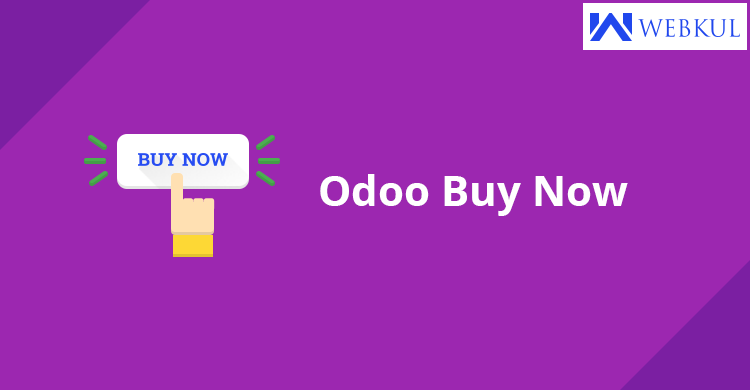
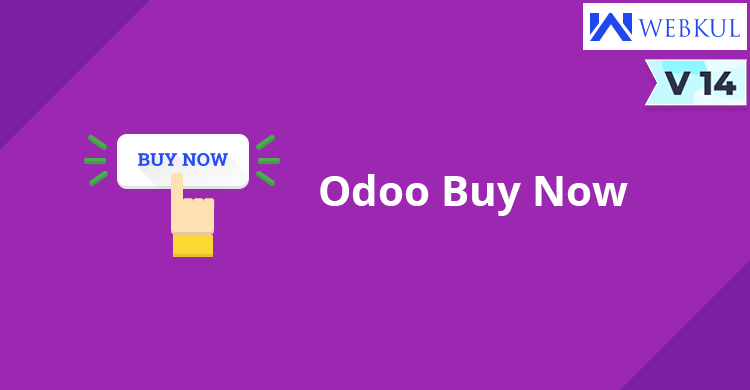
Website Buy Now update to V14

Changed region(s): [[0.8587, 0.1538, 1.0, 0.2769]]

diff --git a/website_buy_now/static/description/index.html b/website_buy_now/static/description/index.html
@@ -5,114 +5,166 @@
 
 <div class="container" style="font-family: 'Montserrat', sans-serif !important;font-size: 20px;display: inline-block;">
 
-  <section class="col-md-12 col-lg-12 col-xs-12 col-12" style="margin-top:50px;padding:10px;line-height: 2; background-color:#F0F4F7; box-shadow: 0px 0px 10px rgba(0, 0, 0, 0.2);">
-    <h1 style="border-bottom: 1px solid #999999;padding-bottom: 5px;color:	#a70000; text-align:center;"><span class="fa fa-shopping-bag" /> Website Buy Now</h1>
-    <p style="color:#a70000; text-align:center">
-      Faster checkouts and higher conversions with "Buy Now"
-    </p>
-    <div style="display:flex;color:#001f3f;">
-      <span>  <i class="fa fa-eercast" ></i></span>
-      <p style="color:#001f3f;display: inline;padding-left: 5px;">
-        The module adds Buy Now button to the products on Shop Page and product page.
-      </p>
+  <section class="oe_container" id="wk_header">
+    <div class="mt32 mb32">
+        <h2 class="text-center" style="color:#000">
+            Website Buy Now
+        </h2>
+        <h5 class="mt8 mb8 text-center" style="font-weight:500; font-size:18px; color:#484848; font-family:'Montserrat', sans-serif">
+            <i>Faster checkouts and higher conversions with "Buy Now"</i>
+        </h5>
     </div>
-    <div style="display:flex;color:#001f3f;">
-      <span>  <i class="fa fa-eercast" ></i></span>
-      <p style="color:#001f3f;display: inline;padding-left: 5px;">
-        The "Buy Now" button will now appear next to products as an icon.
-      </p>
+    <div class="row mt16 mb16 py-2 m-1" style="font-weight:500; font-size:18px; color:#484848; font-family:'Montserrat', sans-serif">
+        <div class="container col-md-6  border-right" style="font-weight:500;line-height: 24px;font-size:16px;color:#484848;font-family:'Montserrat', sans-serif; vertical-align: middle; display: grid;">
+            <p class="mb4 mt4 mr8">
+              Odoo Website Buy Now Module adds a "Buy Now" icon on each product on the shop page and product page. Hence, the module makes the checkout process quicker which reduces cart abandonment.
+            </p>
+        </div>
+        <div class="container col-md-6 ">
+            <h4 class="ml-md-3">Information</h4>
+            <div class="mt-2 ml-md-3" style="display:flex">
+                <span class="ml-1 mr-2 my-auto"><img src="icon-user-guide.png" alt="user-guide"></span>
+                <div style="font-weight: 600;font-size: 14px;line-height: 10px;" class="mt-2">
+                    User Guide
+                </div>
+            </div>
+            <div class="ml-md-3" style="display:flex;">
+                <span style="font-size:15px; margin-top:0.2rem"> https://webkul.com/blog/odoo-website-buy-now/</span>
+            </div>
+        </div>
     </div>
+</section>
 
-    <div style="display:flex;color:#001f3f;">
-      <span>  <i class="fa fa-eercast" ></i></span>
-      <p style="color:#001f3f;display: inline;padding-left: 5px;">
-        The buyers can just click on the "Buy Now" button which would take them directly to the shipping page while skipping the cart and process quick checkout in as small as 2 steps.
-      </p>
+
+  <section class="card border-0 shadow-sm mt-4">
+    <div class="card-header bg-white border-light">
+      <p class="mb-0 h3 text-dark">Requirements</p>
+    </div>
+    <div class="card-body border-0">
+      <ul class="pl-4">
+        <li>
+          <p class="h4 w-100 text-dark mb-0 font-weight-normal" style="line-height: 2;">
+            The module adds Buy Now button to the products on Shop Page and product page.
+          </p>
+        </li>
+        <li>
+          <p class="h4 w-100 text-dark mb-0 font-weight-normal" style="line-height: 2;">
+            The "Buy Now" button will now appear next to products as an icon.
+          </p>
+        </li>
+        <li>
+          <p class="h4 w-100 text-dark mb-0 font-weight-normal" style="line-height: 2;">
+            The buyers can just click on the "Buy Now" button which would take them directly to the shipping page while skipping the cart and process quick checkout in as small as 2 steps.
+          </p>
+        </li>
+      </ul>
     </div>
   </section>
 
-  <section class="col-md-12 col-lg-12 col-xs-12 col-12" style="line-height: 1.5;margin-top:50px;padding:10px; background-color:#F0F4F7; box-shadow: 0px 0px 10px rgba(0, 0, 0, 0.2);">
-    <h2 style="color:	#a70000;border-bottom: 1px solid #999999;padding-bottom: 5px; text-align:center;">Features</h2>
-    <ul>
-      <li style="margin-bottom: 20px;">
-        <p style="color:#001f3f;">
-          The module facilitates quicker checkout for customers looking to buy a one product at a time.
-      </li>
-      <li style="margin-bottom: 20px;">
-        <p style="color:#001f3f;">
-          It adds a Buy Now button individually to the products on both the shop page and product page on Odoo website.
-        </p>
-      </li>
-      <li style="margin-bottom: 20px;">
-        <p style="color:#001f3f;">
-          The customers can just click on the "Buy Now" button and go to shipping information page, skipping the cart altogether and proceed with the checkout.
-        </p>
-      </li>
-      <li style="margin-bottom: 20px;">
-        <p style="color:#001f3f;">
-          When Buy Now is clicked, the products present in the cart (if any) gets automatically hidden and the cart gets reset to show just the clicked product. Once the order is placed, the cart gets automatically recovered with the original products in the list.
-
-        </p>
-      </li>
-      <li style="margin-bottom: 20px;">
-        <p style="color:#001f3f;">
-          If Buy Now button is clicked on multiple browsers or multiple tabs from the same account, the system displays an error while making payments to prevent conflicting orders from same Buy Now cart.
-        </p>
-      </li>
-    </ul>
-
+  <section class="card border-0 shadow-sm mt-4">
+    <div class="card-header bg-white border-light">
+      <p class="mb-0 h3 text-dark">Key Features</p>
+    </div>
+    <div class="card-body border-0">
+      <ul class="pl-4">
+        <li>
+          <p class="h4 w-100 text-dark mb-0 font-weight-normal" style="line-height: 2;">
+            The module facilitates quicker checkout for customers looking to buy a one product at a time.
+          </p>
+        </li>
+        <li>
+          <p class="h4 w-100 text-dark mb-0 font-weight-normal" style="line-height: 2;">
+            It adds a Buy Now button individually to the products on both the shop page and product page on Odoo website.
+          </p>
+        </li>
+        <li>
+          <p class="h4 w-100 text-dark mb-0 font-weight-normal" style="line-height: 2;">
+            The customers can just click on the "Buy Now" button and go to shipping information page, skipping the cart altogether and proceed with the checkout.
+          </p>
+        </li>
+        <li>
+          <p class="h4 w-100 text-dark mb-0 font-weight-normal" style="line-height: 2;">
+            When Buy Now is clicked, the products present in the cart (if any) gets automatically hidden and the cart gets reset to show just the clicked product. Once the order is placed, the cart gets automatically recovered with the original products in the list.
+          </p>
+        </li>
+        <li>
+          <p class="h4 w-100 text-dark mb-0 font-weight-normal" style="line-height: 2;">
+            If Buy Now button is clicked on multiple browsers or multiple tabs from the same account, the system displays an error while making payments to prevent conflicting orders from same Buy Now cart.
+          </p>
+        </li>
+      </ul>
+    </div>
   </section>
 
-  <section class="col-md-12 col-lg-12 col-xs-12 col-12" style="margin-top:50px;padding:0px; background-color:#F0F4F7; box-shadow: 0px 0px 10px rgba(0, 0, 0, 0.2);">
-    <p style="margin-bottom:0px;"><a href="img_1.png" target="new"><img src="img_1.png" style="width:100%;" /></a></p>
+  <section class="card border-0 shadow-sm mt-4">
+    <div class="card-body border-0">
+      <p class="mb-4 h4 text-dark">Buy now button on the website shop page</p>
+      <p class="mb-0"><a href="img_1.png" target="new"><img src="img_1.png" class="w-100" /></a></p>
+      <p class="mb-4 h4 mt-4 text-dark">Buy now button on the website Product page</p>
+      <p class="mb-0"><a href="img_2.png" target="new"><img src="img_2.png" class="w-100" /></a></p>
+    </div>
   </section>
-  <section class="col-md-12 col-lg-12 col-xs-12 col-12" style="margin-top:50px;padding:0px; background-color:#F0F4F7; box-shadow: 0px 0px 10px rgba(0, 0, 0, 0.2);">
-    <p style="margin-bottom:0px;"><a href="img_2.png" target="new"><img src="img_2.png" style="width:100%;" /></a></p>
+  <section class="card border-0 shadow-sm mt-4">
+    <div class="card-body border-0">
+      <p class="mb-4 h4 text-dark">Enable/Disable Buy now feature for website from the shop page</p>
+      <p class="mb-0"><a href="img_3.png" target="new"><img src="img_3.png" class="w-100" /></a></p>
+      <p class="mb-4 h4 mt-4 text-dark">Enable/Disable Buy now feature for website from the Product page</p>
+      <p class="mb-0"><a href="img_7.png" target="new"><img src="img_7.png" class="w-100" /></a></p>
+    </div>
   </section>
-  <section class="col-md-12 col-lg-12 col-xs-12 col-12" style="margin-top:50px;padding:0px; background-color:#F0F4F7; box-shadow: 0px 0px 10px rgba(0, 0, 0, 0.2);">
-    <p style="margin-bottom:0px;"><a href="img_3.png" target="new"><img src="img_3.png" style="width:100%;" /></a></p>
+
+  <section class="card border-0 shadow-sm mt-4">
+    <div class="card-body border-0">
+      <p class="mb-0"><a href="img_4.png" target="new"><img src="img_4.png" class="w-100" /></a></p>
+    </div>
   </section>
-  <section class="col-md-12 col-lg-12 col-xs-12 col-12" style="margin-top:50px;padding:0px; background-color:#F0F4F7; box-shadow: 0px 0px 10px rgba(0, 0, 0, 0.2);">
-    <p style="margin-bottom:0px;"><a href="img_4.png" target="new"><img src="img_4.png" style="width:100%;" /></a></p>
-  </section>
-  <section class="col-md-12 col-lg-12 col-xs-12 col-12" style="margin-top:50px;padding:0px; background-color:#F0F4F7; box-shadow: 0px 0px 10px rgba(0, 0, 0, 0.2);">
-    <p style="margin-bottom:0px;"><a href="img_5.png" target="new"><img src="img_5.png" style="width:100%;" /></a></p>
-  </section>
-  <section class="col-md-12 col-lg-12 col-xs-12 col-12" style="margin-top:50px;padding:0px; background-color:#F0F4F7; box-shadow: 0px 0px 10px rgba(0, 0, 0, 0.2);">
-    <p style="margin-bottom:0px;"><a href="img_6.png" target="new"><img src="img_6.png" style="width:100%;" /></a></p>
+
+  <section class="card border-0 shadow-sm mt-4">
+    <div class="card-body border-0">
+      <p class="mb-4 h4 text-dark">After clicking the Buy Now button, All the products are removed and added the one, user request redirected to payment page.</p>
+      <p class="mb-0"><a href="img_5.png" target="new"><img src="img_5.png" class="w-100" /></a></p>
+      <p class="mb-4 h4 mt-4 text-dark">After confirming the order recover all the products again that has been removed by the Buy Now button.</p>
+      <p class="mb-0"><a href="img_6.png" target="new"><img src="img_6.png" class="w-100" /></a></p>
+    </div>
   </section>
 
 
-    <section style="margin-top:50px;">
-      <div>
-          <div class="col-md-12 col-lg-12 col-xs-12 col-12">
-              <h2 class='oe_slogan' style="color:#5D6D7E;text-align: center;">Complimentary Support</h2>
-              <p style="color:#5D6D7E; text-align:center;">
-              You will get 90 days free support for any doubt, queries, and bug fixing excluding(data recovery) or any type of issue related to this module.
-              </p>
+  <section class="pt32" id="webkul_support">
+      <div class="row">
+          <div class="col-12">
+              <h2 class="text-center">Help and Support</h2>
+              <p class="mb-2 text-center" style="font-size:16px; color:#333; font-weight:400">Get Immediate support for any of your query</p>
+          </div>
+          <div class="col-12">
+              <p class="text-center px-5" style="font-size:14px; color:#555; font-weight:normal">You will get 90 days free support for any doubt, queries, and bug fixing (excluding data recovery) or any type of issue related to this module.</p>
+          </div>
+          <div class="mx-auto col-lg-9 mb-4 oe_screenshot">
+              <div class="row align-items-center justify-content-center mx-0 p-3">
+                  <div class="col-sm-2 text-center pr-0">
+                      <img src="mail.png" alt="mail" class="img img-fluid">
+                  </div>
+                  <div class="col-xl-7 col-sm-10">
+                      <p class="my-2" style="color:#555; font-weight:bold">Write a mail to us:</p>
+                      <b class="text-primary" style="font-size:18px">support@webkul.com</b>
+                      <p class="my-2" style="font-size:14px; color:#777; font-weight:normal">Any queries or want any extra features? Just drop a mail to our support.</p>
+                  </div>
+                  <div class="col-xl-3 offset-xl-0 float-xl-right col-sm-10 offset-sm-2 float-left mt16">
+                      <a href="mailto:support@webkul.com" style="padding:10px 22px; background-color:#2335D7; font-size:14px; color:#fff"><i class="fa fa-pencil-square-o" style="color:white; margin-right:4px"></i>Write To US</a>
+                  </div>
+              </div>
+          </div>
+          <div class="mx-auto col-lg-9 oe_screenshot">
+              <div class="row align-items-center justify-content-center mx-0 p-3">
+                  <div class="col-sm-2 text-center pr-0">
+                      <img src="support-icon.png" alt="support-icon" class="img img-fluid">
+                  </div>
+                  <div class="col-sm-10 ">
+                      <p class="my-2" style="font-weight:bold; color:#555">Get in touch with our Expert:</p>
+                      <b class="text-primary text-break" style="font-size:18px">https://webkul.uvdesk.com/en/customer/create-ticket/</b>
+                      <p class="my-2" style="font-weight:normal; font-size:14px; color:#777">Have any technical queries, want extra features, or anything else? Our team is here to answer all your questions. Just Raise A Support Ticket.</p>
+                  </div>
+              </div>
           </div>
       </div>
-      <div class="col-md-12 col-lg-12 col-xs-12 col-12">
-          <div class="" style="text-align: center;">
-              <h2 class="oe_slogan" style="color:#5D6D7E;text-align: center;">Help and Support</h2>
-          </div>
-          <div class="oe_slogan oe_spaced" style="text-align: center;">
-              <img src="icon-help.png">
-              <span ><a onMouseOver="this.style.color='#AC1EE0'"
-                onMouseOut="this.style.color='#7c7bad'" style="color:#fc8927;" target="_blank" href="http://webkul.uvdesk.com/en/customer/create-ticket/">Help</a></span>
-              <img src="icon-support.png">
-              <span ><a onMouseOver="this.style.color='#AC1EE0'"
-                onMouseOut="this.style.color='#7c7bad'" style="color:#fc8927;" target="_blank" href="http://webkul.uvdesk.com/en/customer/create-ticket/">Support</a></span>
-              <img src="icon-features.png">
-              <span ><a onMouseOver="this.style.color='#AC1EE0'"
-                onMouseOut="this.style.color='#7c7bad'" style="color:#fc8927;" target="_blank" href="http://webkul.uvdesk.com/en/customer/create-ticket/">Request new Features</a></span>
-          </div>
-      </div>
-    </section>
-
-    <section class="oe_container">
-      <div class="col-md-12 col-lg-12 col-xs-12 col-12">
-        <img src="http://odooimg.webkul.com/analytics/piwik/piwik.php?idsite=3&rec=1&action_name=WEBSITE-CART-SETTINGS&url=https://apps.openerp.com/apps/modules/10.0/advance_website_settings&uid=advance_website_settings" style="border:0" alt="" />
-      </div>
-    </section>
+  </section>
 </div>

diff --git a/website_buy_now/static/src/js/main.js b/website_buy_now/static/src/js/main.js
@@ -38,7 +38,7 @@ odoo.define('website_buy_now.main', function (require) {
 
     function loadPage(){
       var path = window.location.pathname;
-      var paths = ['/shop/checkout','/shop/payment','/shop/confirmation','/shop/cart','/shop/address']
+      var paths = ['/shop/checkout','/shop/payment','/shop/confirmation','/shop/cart','/shop/address', '/payment/process']
       if ((localStorage.getItem("buy_now") == 'true' && !paths.includes(path))|| (path == '/shop')){
         $('.my_cart_quantity ').hide();
         ajax_get_quantity();

diff --git a/website_buy_now/__manifest__.py b/website_buy_now/__manifest__.py
@@ -15,9 +15,9 @@
 #################################################################################
 {
   "name"                 :  "Website Buy Now",
-  "summary"              :  "Odoo website Buy Now module adds a Buy Now button to the products on Odoo website so you buy the products in a single click.",
+  "summary"              :  """Odoo website Buy Now module adds a Buy Now button to the products on Odoo website so you buy the products in a single click.""",
   "category"             :  "Website",
-  "version"              :  "1.0.3",
+  "version"              :  "1.0.7",
   "author"               :  "Webkul Software Pvt. Ltd.",
   "license"              :  "Other proprietary",
   "website"              :  "https://store.webkul.com/Odoo-Website-Buy-Now.html",
@@ -40,8 +40,7 @@
                             Order again""",
   "live_test_url"        :  "http://odoodemo.webkul.com/?module=website_buy_now",
   "depends"              :  [
-                             'website_sale',
-                             'sale',
+                             'website_sale_delivery',
                             ],
   "data"                 :  [
                              'security/ir.model.access.csv',
@@ -52,6 +51,6 @@
   "installable"          :  True,
   "auto_install"         :  False,
   "price"                :  69,
-  "currency"             :  "EUR",
+  "currency"             :  "USD",
   "pre_init_hook"        :  "pre_init_check",
 }

diff --git a/website_buy_now/__init__.py b/website_buy_now/__init__.py
@@ -13,5 +13,5 @@ def pre_init_check(cr):
 	from odoo.exceptions import Warning
 	version_info = common.exp_version()
 	server_serie =version_info.get('server_serie')
-	if server_serie!='13.0':raise Warning('Module support Odoo series 13.0 found {}.'.format(server_serie))
+	if server_serie!='14.0':raise Warning('Module support Odoo series 14.0 found {}.'.format(server_serie))
 	return True
